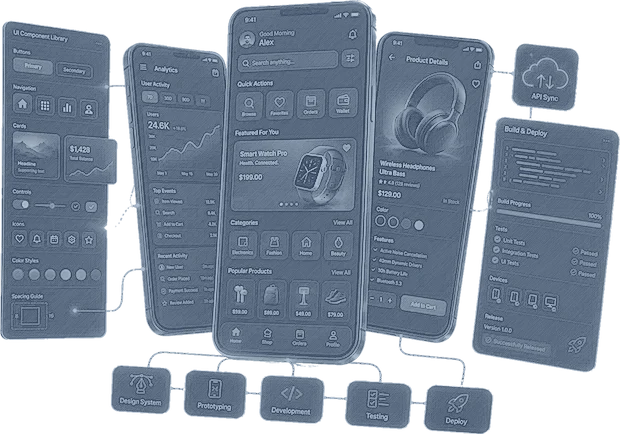
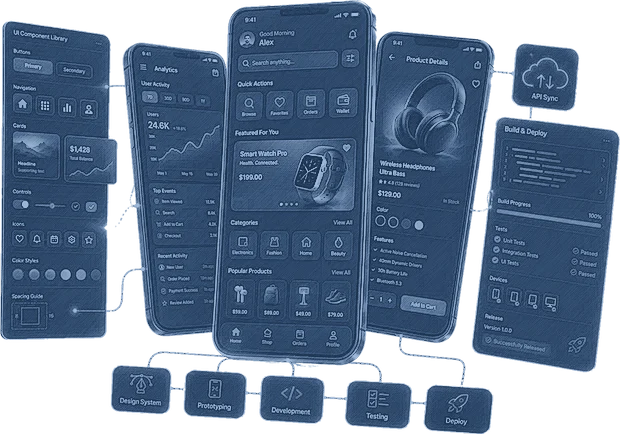
Tint the pencil plates in the page's own navy
Map the drawings through a three-stop ramp in the background's hue
(#16283f -> #34557f -> #b4cbe6) instead of grey pencil on grey paper.

Claude-Session: https://claude.ai/code/session_01FYg2SGhRfsPbFS8qQzcyRd

diff --git a/CLAUDE.md b/CLAUDE.md
@@ -1298,13 +1298,18 @@ repository.
 - **A pencil drawing is three layers and every earlier revision missed one.**
   LINE (a colour-dodge sketch), HATCH (diagonal motion-blurred noise, laid only
   where the photo is dark) and SHADE (the photo's own luma, lifted), multiplied
-  on white and then mapped `INK #1a2d47` → `PAPER #c3d1e0`. Line alone was
+  on white and then mapped through a three-stop ramp in the PAGE'S OWN HUE —
+  `INK #16283f` → `MID #34557f` → `PAPER #b4cbe6` (frame-091 samples at
+  `#1f3452`, hue 215). Line alone was
   unreadable at 122px; line screened over a recoloured tone read as embossed
   grey slabs; line multiplied over the untouched photo read as a photo with
   outlines. The hatching is what makes it read as DRAWN.
-- **Blue-grey paper, not white.** A white-paper version was rejected as a pale
-  slab on navy stock. `PAPER` stays under the silver type (0.81 vs 0.895).
-  The first cut used `#0f1c30`/`#aabdd2` and printed every dark plate dim.
+- **The colour follows the background, not real pencil.** A white-paper
+  version was rejected as a pale slab on navy stock; a grey-blue two-stop map
+  (`#1a2d47`/`#c3d1e0`) read as pencil on a separate grey sheet and was asked
+  to follow the background instead. Three stops, not two, because a two-stop
+  map from navy to near-white turns every mid-tone grey. The first cut
+  (`#0f1c30`/`#aabdd2`) printed every dark plate dim.
 - **`-clahe` before drawing.** 02's renders and 03's night desks are mostly
   dark; a global `-auto-level` leaves their detail in the bottom fifth and the
   hatching buries it. `HATCH_GATE=20` keeps hatching to the deepest shadows.
